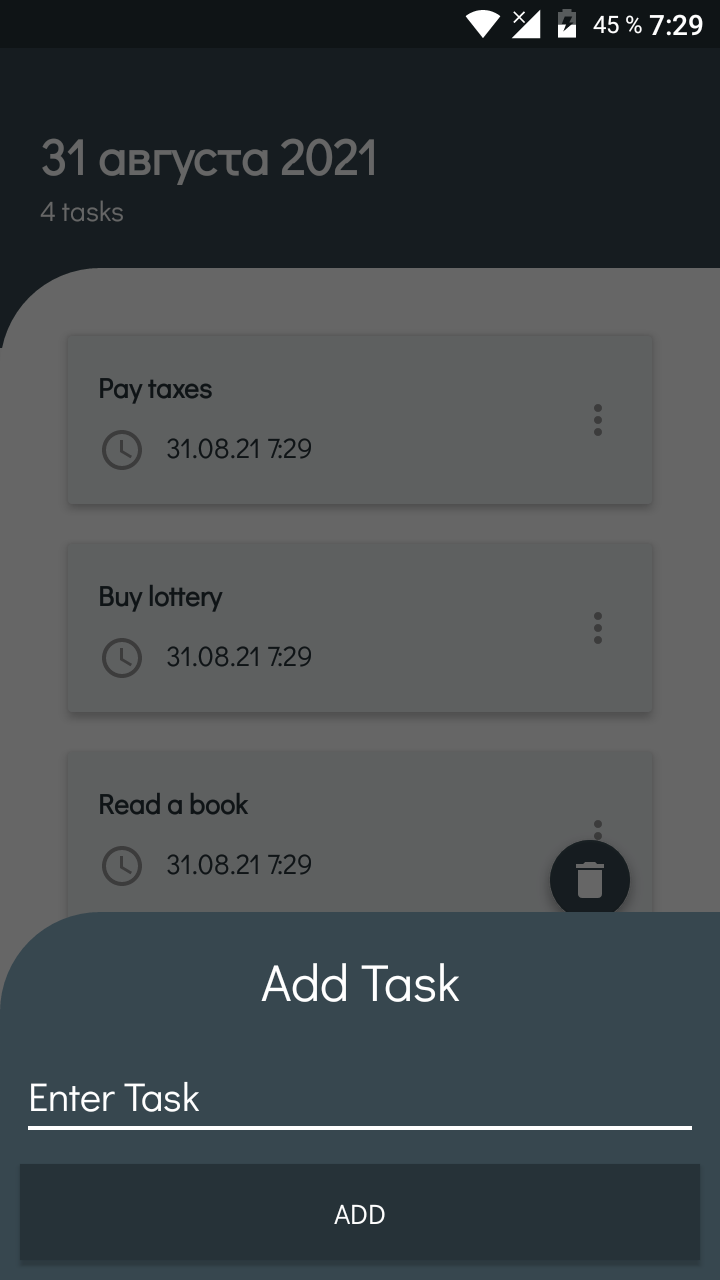
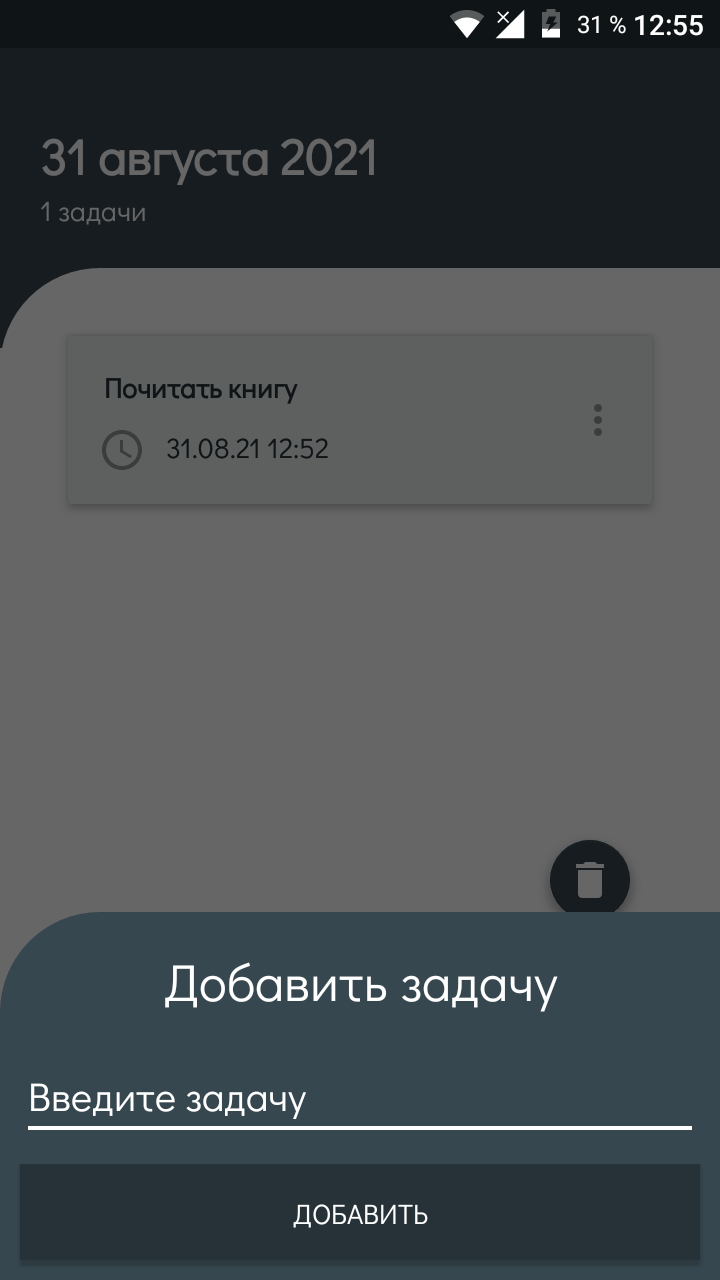
Improvements in the code and added localization (Ru)

diff --git a/app/src/main/java/dev/zurbaevi/todolist/ui/task/TaskFragment.kt b/app/src/main/java/dev/zurbaevi/todolist/ui/task/TaskFragment.kt
@@ -14,6 +14,7 @@ import androidx.recyclerview.widget.ItemTouchHelper
 import androidx.recyclerview.widget.RecyclerView
 import com.getbase.floatingactionbutton.FloatingActionsMenu
 import com.google.android.material.snackbar.Snackbar
+import dev.zurbaevi.todolist.R
 import dev.zurbaevi.todolist.database.TaskEntry
 import dev.zurbaevi.todolist.databinding.FragmentTaskBinding
 import dev.zurbaevi.todolist.util.getCurrentDate
@@ -49,33 +50,43 @@ class TaskFragment : Fragment() {
         binding.textTodayTitle.text = getCurrentDate()
 
         viewModel.getAllTasks.observe(viewLifecycleOwner, {
+            if (it.isEmpty()) {
+                binding.textEmptyList.visibility = View.VISIBLE
+            } else {
+                binding.textEmptyList.visibility = View.GONE
+            }
             adapter.submitList(it)
         })
 
         viewModel.getAllTasksCount.observe(viewLifecycleOwner, {
-            binding.textTaskCount.text = String.format("$it tasks")
+            binding.textTaskCount.text = String.format("$it %s", getString(R.string.tasks))
         })
 
         binding.apply {
 
             binding.recyclerView.adapter = adapter
 
-            floatingActionMenu.setOnFloatingActionsMenuUpdateListener(object :
+            floatingActionsMenu.setOnFloatingActionsMenuUpdateListener(object :
                 FloatingActionsMenu.OnFloatingActionsMenuUpdateListener {
                 override fun onMenuExpanded() {
                     binding.fabExpandMenuButtonAddTask.setOnClickListener {
                         findNavController().safeNavigate(TaskFragmentDirections.actionTaskFragmentToAddTaskBottomSheetDialogFragment())
                     }
-                    binding.fabExpandMenuButtonAddDeleteTask.setOnClickListener {
+                    binding.fabExpandMenuButtonDeleteTask.setOnClickListener {
                         AlertDialog.Builder(requireContext())
-                            .setTitle("Delete all tasks")
-                            .setMessage("Are you, sure you want to delete all tasks?")
-                            .setPositiveButton("Yes") { dialog: DialogInterface, _: Int ->
+                            .setTitle(getString(R.string.alert_dialog_title))
+                            .setMessage(getString(R.string.alert_dialog_message))
+                            .setPositiveButton(getString(R.string.alert_dialog_positive_button)) { dialog: DialogInterface, _: Int ->
                                 viewModel.deleteAllTasks()
                                 dialog.dismiss()
-                                Toast.makeText(requireContext(), "Deleted!", Toast.LENGTH_SHORT)
+                                Toast.makeText(
+                                    requireContext(),
+                                    getString(R.string.toast_deleted),
+                                    Toast.LENGTH_SHORT
+                                )
                                     .show()
-                            }.setNegativeButton("No") { dialog: DialogInterface, _: Int ->
+                            }
+                            .setNegativeButton(getString(R.string.alert_dialog_negative_button)) { dialog: DialogInterface, _: Int ->
                                 dialog.dismiss()
                             }
                             .create().show()
@@ -103,8 +114,12 @@ class TaskFragment : Fragment() {
                 val taskEntry = adapter.currentList[position]
                 viewModel.delete(taskEntry)
 
-                Snackbar.make(binding.root, "Deleted!", Snackbar.LENGTH_SHORT).apply {
-                    setAction("Undo") {
+                Snackbar.make(
+                    binding.root,
+                    getString(R.string.toast_deleted),
+                    Snackbar.LENGTH_SHORT
+                ).apply {
+                    setAction(getString(R.string.snackbar_action)) {
                         viewModel.insert(taskEntry)
                     }
                     show()

diff --git a/app/src/main/java/dev/zurbaevi/todolist/ui/update/UpdateTaskBottomSheetDialogFragment.kt b/app/src/main/java/dev/zurbaevi/todolist/ui/update/UpdateTaskBottomSheetDialogFragment.kt
@@ -11,6 +11,7 @@ import androidx.fragment.app.viewModels
 import com.google.android.material.bottomsheet.BottomSheetBehavior
 import com.google.android.material.bottomsheet.BottomSheetDialog
 import com.google.android.material.bottomsheet.BottomSheetDialogFragment
+import dev.zurbaevi.todolist.R
 import dev.zurbaevi.todolist.database.TaskEntry
 import dev.zurbaevi.todolist.databinding.FragmentUpdateTaskBottomSheetDialogBinding
 import dev.zurbaevi.todolist.viewmodel.TaskViewModel
@@ -31,22 +32,30 @@ class UpdateTaskBottomSheetDialogFragment : BottomSheetDialogFragment() {
         val args = UpdateTaskBottomSheetDialogFragmentArgs.fromBundle(requireArguments())
 
         binding.apply {
-            editFragmentUpdateEnterTask.setText(args.taskEntry.title)
+            editUpdateTask.setText(args.taskEntry.title)
 
-            buttonFragmentUpdateTaskUpdate.setOnClickListener {
-                if (TextUtils.isEmpty(editFragmentUpdateEnterTask.text)) {
-                    Toast.makeText(requireContext(), "It's empty", Toast.LENGTH_SHORT).show()
+            buttonUpdateTask.setOnClickListener {
+                if (TextUtils.isEmpty(editUpdateTask.text)) {
+                    Toast.makeText(
+                        requireContext(),
+                        getString(R.string.toast_empty),
+                        Toast.LENGTH_SHORT
+                    ).show()
                     return@setOnClickListener
                 }
 
                 val taskEntry = TaskEntry(
                     args.taskEntry.id,
-                    editFragmentUpdateEnterTask.text.toString(),
+                    editUpdateTask.text.toString(),
                     args.taskEntry.timestamp
                 )
 
                 viewModel.update(taskEntry)
-                Toast.makeText(requireContext(), "Updated!", Toast.LENGTH_SHORT).show()
+                Toast.makeText(
+                    requireContext(),
+                    getString(R.string.toast_updated),
+                    Toast.LENGTH_SHORT
+                ).show()
             }
 
             return binding.root

diff --git a/app/src/main/java/dev/zurbaevi/todolist/ui/add/AddTaskBottomSheetDialogFragment.kt b/app/src/main/java/dev/zurbaevi/todolist/ui/add/AddTaskBottomSheetDialogFragment.kt
@@ -11,6 +11,7 @@ import androidx.fragment.app.viewModels
 import com.google.android.material.bottomsheet.BottomSheetBehavior
 import com.google.android.material.bottomsheet.BottomSheetDialog
 import com.google.android.material.bottomsheet.BottomSheetDialogFragment
+import dev.zurbaevi.todolist.R
 import dev.zurbaevi.todolist.database.TaskEntry
 import dev.zurbaevi.todolist.databinding.FragmentAddTaskBottomSheetDialogBinding
 import dev.zurbaevi.todolist.viewmodel.TaskViewModel
@@ -29,20 +30,28 @@ class AddTaskBottomSheetDialogFragment : BottomSheetDialogFragment() {
         _binding = FragmentAddTaskBottomSheetDialogBinding.inflate(inflater, container, false)
 
         binding.apply {
-            buttonFragmentAddTaskAdd.setOnClickListener {
-                if (TextUtils.isEmpty(editFragmentAddEnterTask.text)) {
-                    Toast.makeText(requireContext(), "It's empty", Toast.LENGTH_SHORT).show()
+            buttonAddTask.setOnClickListener {
+                if (TextUtils.isEmpty(editAddTitle.text)) {
+                    Toast.makeText(
+                        requireContext(),
+                        getString(R.string.toast_empty),
+                        Toast.LENGTH_SHORT
+                    ).show()
                     return@setOnClickListener
                 }
 
                 val taskEntry = TaskEntry(
                     0,
-                    editFragmentAddEnterTask.text.toString(),
+                    editAddTitle.text.toString(),
                     System.currentTimeMillis()
                 )
 
                 viewModel.insert(taskEntry)
-                Toast.makeText(requireContext(), "Added!", Toast.LENGTH_SHORT).show()
+                Toast.makeText(
+                    requireContext(),
+                    getString(R.string.toast_added),
+                    Toast.LENGTH_SHORT
+                ).show()
             }
         }
 

diff --git a/app/src/main/java/dev/zurbaevi/todolist/ui/task/TaskAdapter.kt b/app/src/main/java/dev/zurbaevi/todolist/ui/task/TaskAdapter.kt
@@ -32,8 +32,8 @@ class TaskAdapter : ListAdapter<TaskEntry, TaskAdapter.ViewHolder>(TaskDiffCallb
         RecyclerView.ViewHolder(binding.root) {
 
         fun binding(taskEntry: TaskEntry, clickListener: OnItemClickListener) {
-            binding.textRowLayoutTaskTitle.text = taskEntry.title
-            binding.textRowLayoutTime.text = DateFormat.getInstance().format(taskEntry.timestamp)
+            binding.textRowTaskTitle.text = taskEntry.title
+            binding.textRowTime.text = DateFormat.getInstance().format(taskEntry.timestamp)
             itemView.setOnClickListener {
                 clickListener.onItemClick(taskEntry)
             }
